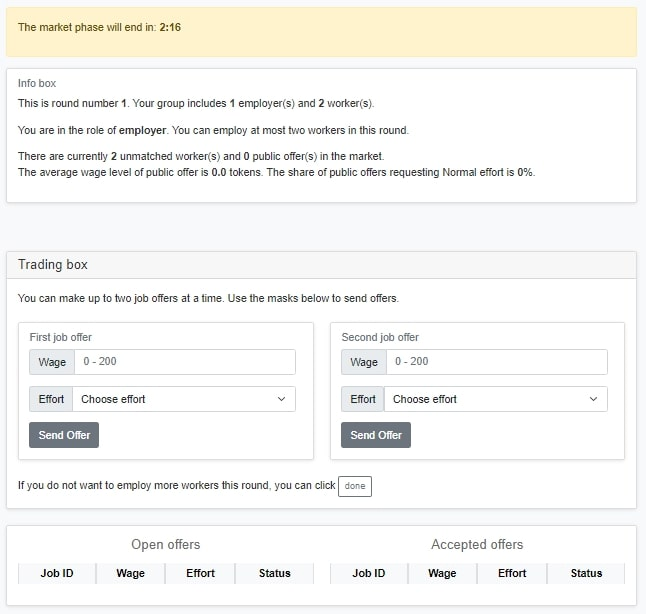
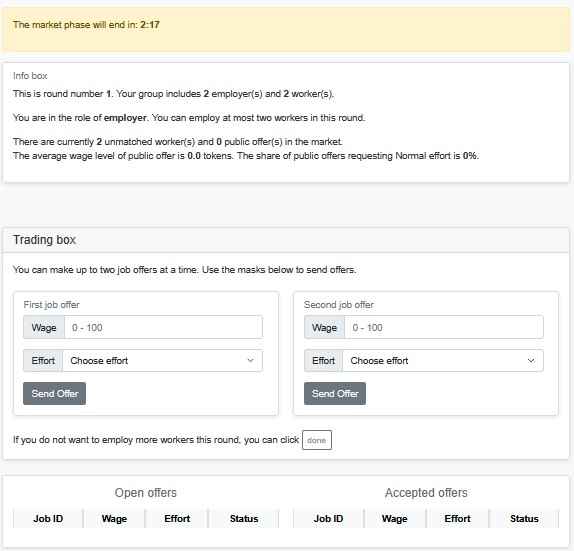
whatever

diff --git a/settings.py b/settings.py
@@ -30,8 +30,8 @@ SESSION_CONFIGS = [
             'end',
         ],
         use_browser_bots=False,
-        num_demo_participants=12,
-        final=False,  # Display instructions
+        num_demo_participants=33,
+        final=True,  # Display instructions
 
         predicted_effort=[1, 5, 10, 14, 19, 23, 28, 32, 37, 41, 46, 50, 55, 59, 64, 68, 73, 77, 82, 86], # Predicted effort in part 2
 
@@ -47,13 +47,13 @@ SESSION_CONFIGS = [
         MPL_low=[80, 70],  # Revenue low effort for 1 or 2 workers
         effort_names=['Low', 'Normal'],  # Names of effort levels
         effort_costs_points=[10, 20],  # Effort costs for low and high effort, in points
-        total_rounds=16,
-        shock_after_rounds=2,  # Number of rounds before migration shock
-        size_large_market=4,  # Number of players in each large market (note: large and small does not mean anything)
-        size_small_market=4,  # Number of players in small market
-        num_employers_large_market=2,  # Number of employers in large market
-        num_employers_small_market=2,  # Number of employers in small market
-        migration_large_shock_size=1,  # Number of migrants in large migration shock (note: large and small shock should be equal to workers in small market)
+        total_rounds=6,
+        shock_after_rounds=3,  # Number of rounds before migration shock
+        size_large_market=11,  # Number of players in each large market (note: large and small does not mean anything)
+        size_small_market=11,  # Number of players in small market
+        num_employers_large_market=5,  # Number of employers in large market
+        num_employers_small_market=5,  # Number of employers in small market
+        migration_large_shock_size=5,  # Number of migrants in large migration shock (note: large and small shock should be equal to workers in small market)
         migration_small_shock_size=1,  # Number of migrants in small migration shock
         worker_example_wage=50,  # Wage in the worker example in points
     )]
